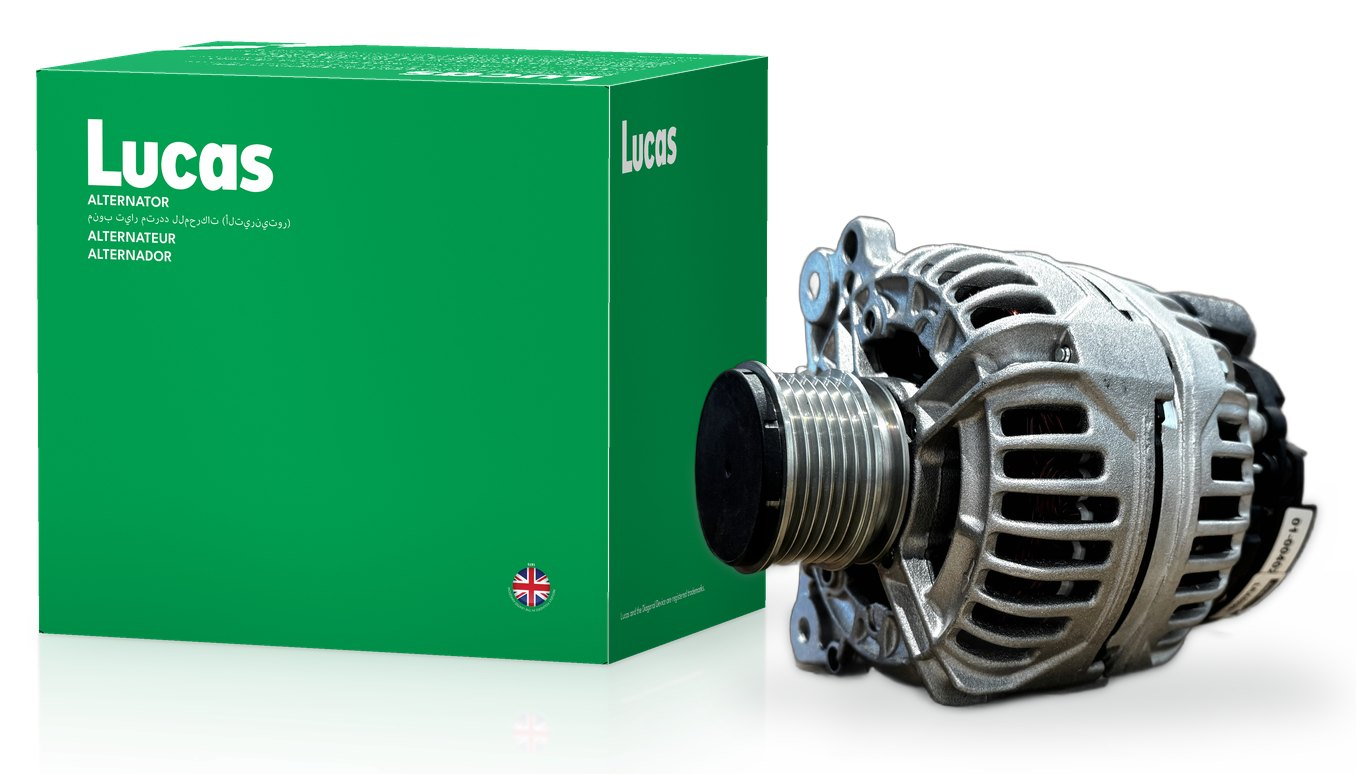
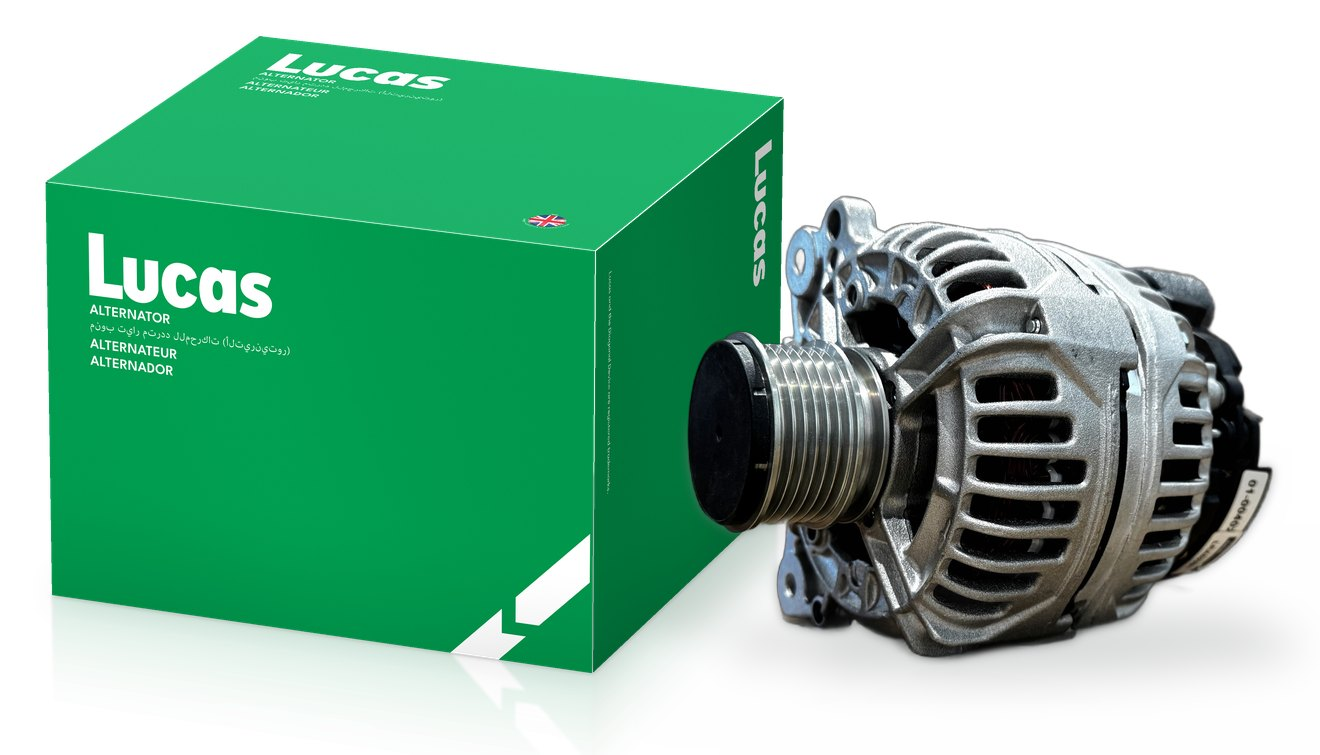
Alternators hero: box folded as designed, with the Lucas diagonal on the front
Re-reads the AF001 dieline: the front panel carries Lucas / ALTERNATOR
and the diagonal device, the lid carries the logo and the UK flag, and
the back carries the warnings and diagonal (box 280 x 260 deep x 210
high). Camera raised slightly so the lid and flag show.

Claude-Session: https://claude.ai/code/session_01K6GgsC2ob2egdLcd9WnDNS

diff --git a/alternators/index.html b/alternators/index.html
@@ -228,7 +228,7 @@ footer{border-top:1px solid var(--line)}
       <p class="lead">Lucas alternators for passenger cars, light commercial vehicles and trucks, plus the components to repair them: bearings, brushes, pulleys, rectifiers, rotors and stators. Search by Lucas number, OE number or vehicle, then check the output, pulley and plug before you order.</p>
       <div class="stats" id="stats"></div>
     </div>
-    <div class="hshot"><img src="/assets/home/alternators.jpg" alt="Lucas alternator with its Lucas box" width="1356" height="774"></div>
+    <div class="hshot"><img src="/assets/home/alternators.jpg" alt="Lucas alternator with its Lucas box" width="1320" height="755"></div>
   </div>
 </section>
 
